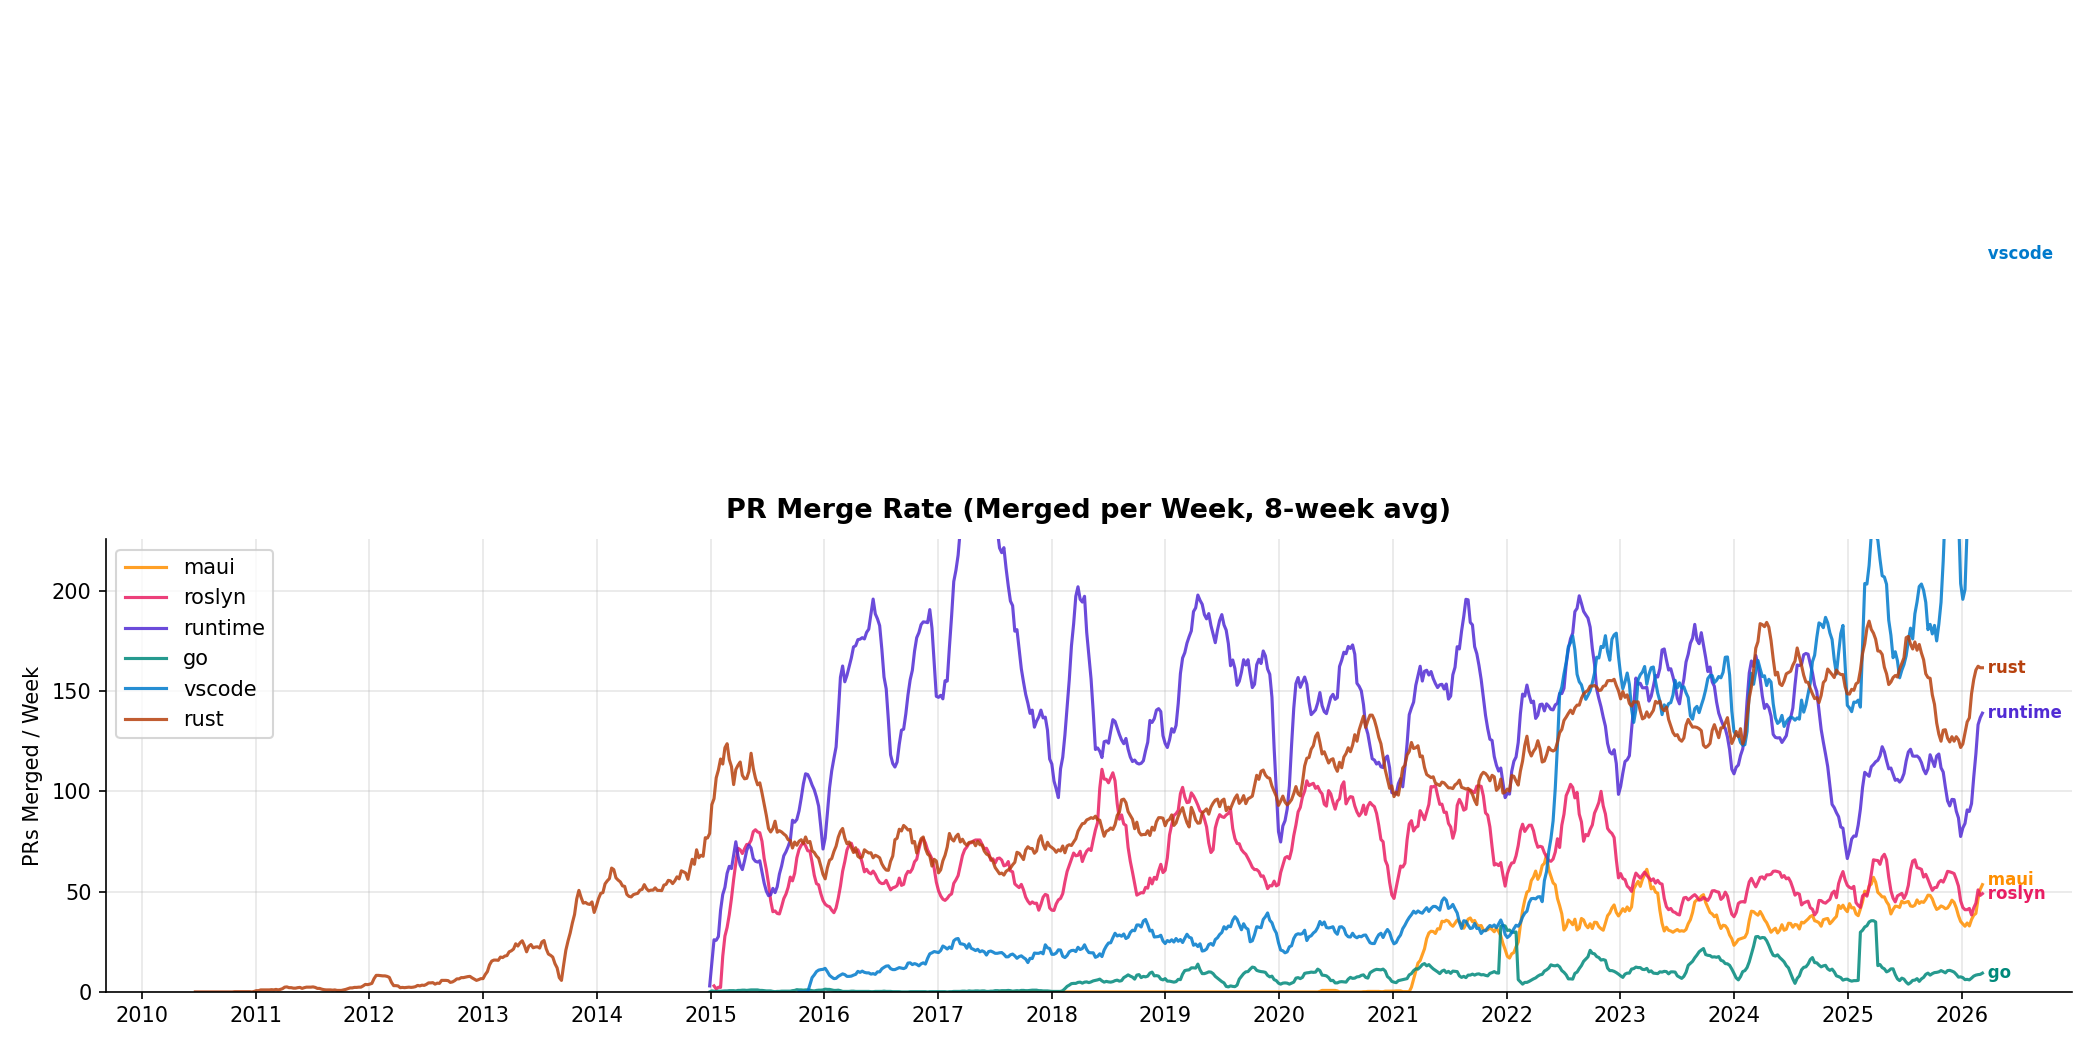
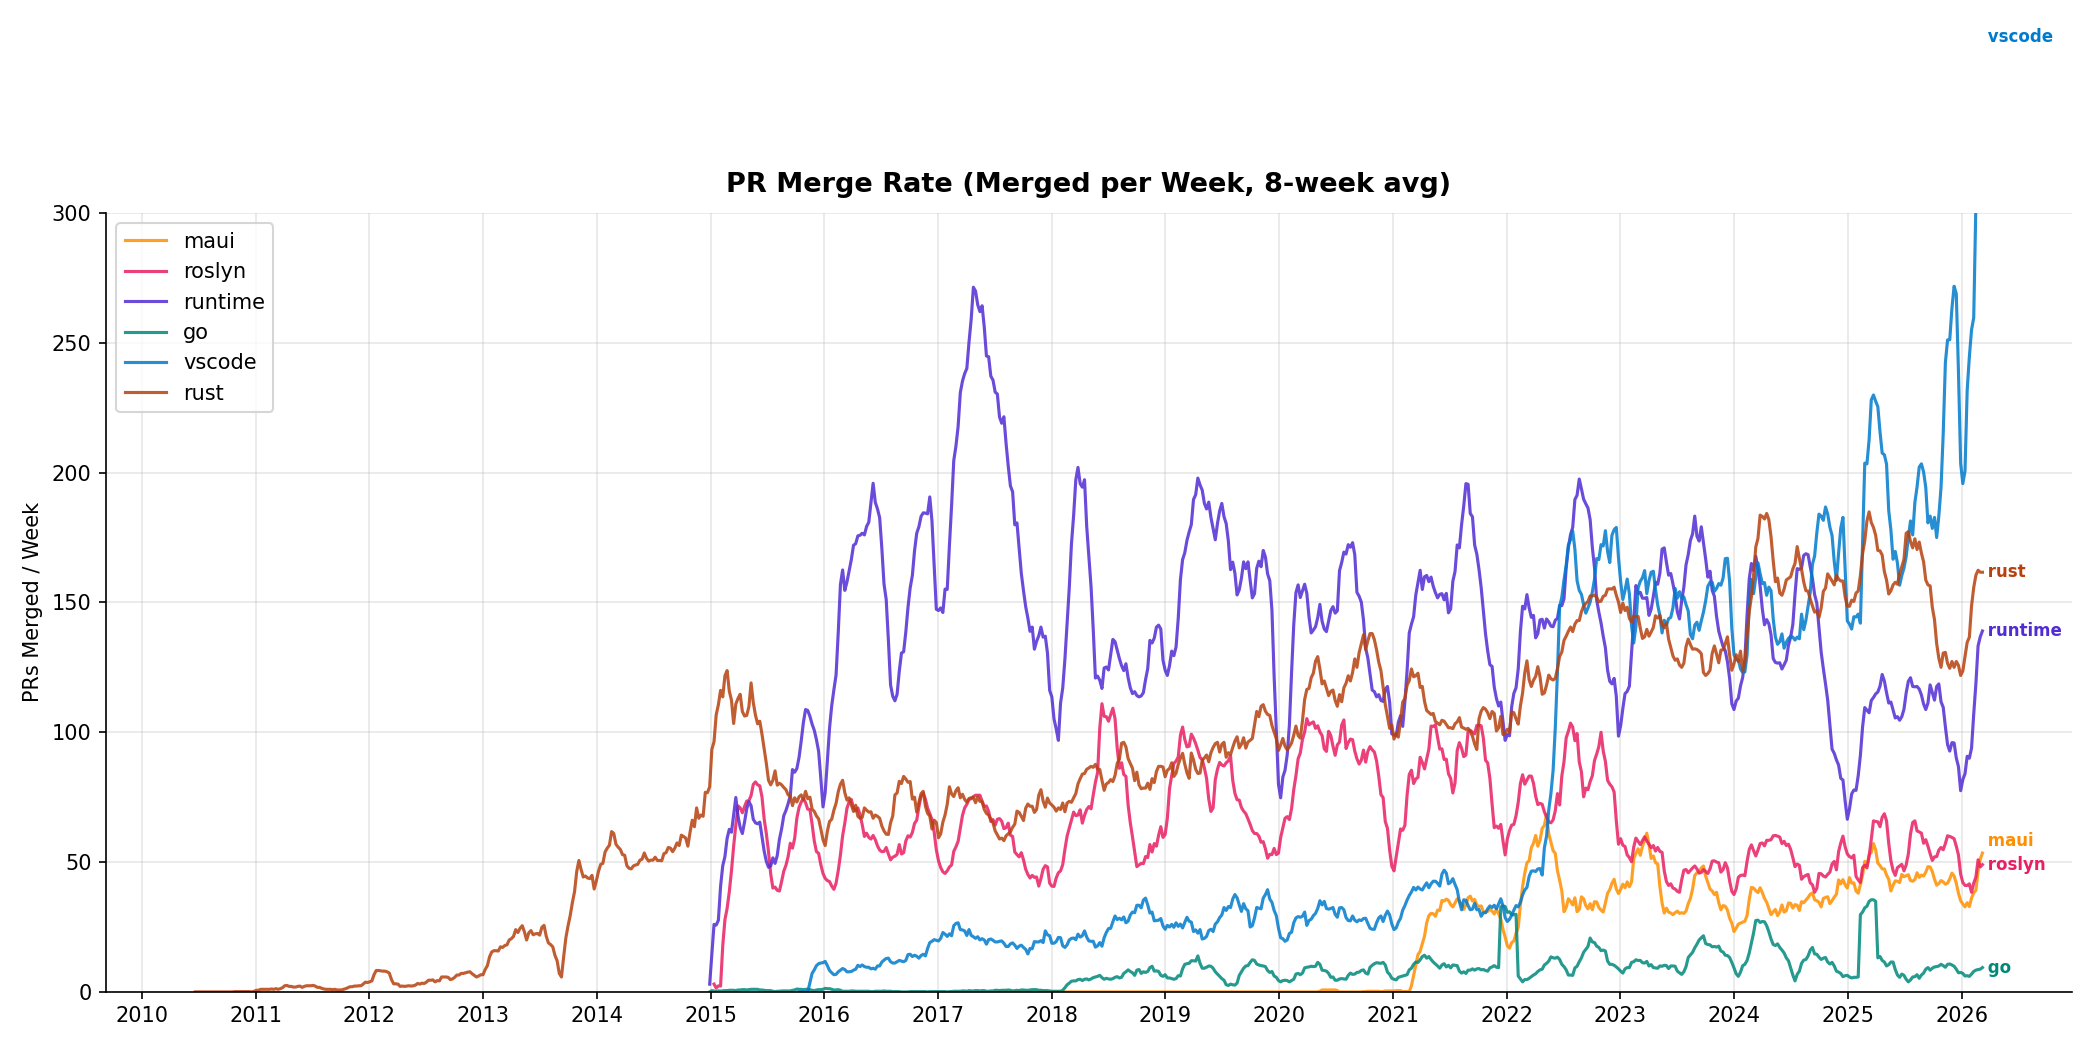
Fix net flow symmetric Y-axis (-100 to +100), raise PR merge rate to 300

diff --git a/analyze.py b/analyze.py
@@ -591,11 +591,9 @@ def chart_net_flow_comparison(all_series, output_dir):
         visible_data.append(smoothed)
         line_ends.append((series["weeks"], smoothed, get_short(repo), get_color(repo)))
 
-    # Clamp Y-axis using p95 to exclude one-time mass-closure spikes
-    # Use p90 to clip vscode's high-volume bulk closure spikes
-    ymin, ymax = robust_ylim(visible_data, padding=1.3, symmetric=True, percentile=0.90)
-    ax.set_ylim(ymin, ymax)
-    ax.annotate("Y-axis clamped to exclude bulk closure spikes",
+    # Fixed symmetric range — shows the interesting variation without extreme spikes
+    ax.set_ylim(-100, 100)
+    ax.annotate("Y-axis clamped to [-100, +100] to exclude bulk closure spikes",
                 xy=(0.02, 0.02), xycoords="axes fraction", fontsize=8,
                 color="#888888", style="italic")
     ax.legend(loc="upper left", fontsize=10)
@@ -625,8 +623,8 @@ def chart_pr_merge_rate_comparison(all_series, output_dir):
         visible_data.append(smoothed)
         line_ends.append((series["weeks"], smoothed, get_short(repo), get_color(repo)))
 
-    ymin, ymax = robust_ylim(visible_data)
-    ax.set_ylim(ymin, ymax)
+    ymin, ymax = robust_ylim(visible_data, percentile=0.99)
+    ax.set_ylim(ymin, max(ymax, 300))
     ax.legend(loc="upper left", fontsize=10)
     label_line_ends(ax, line_ends)
     fig.tight_layout()
